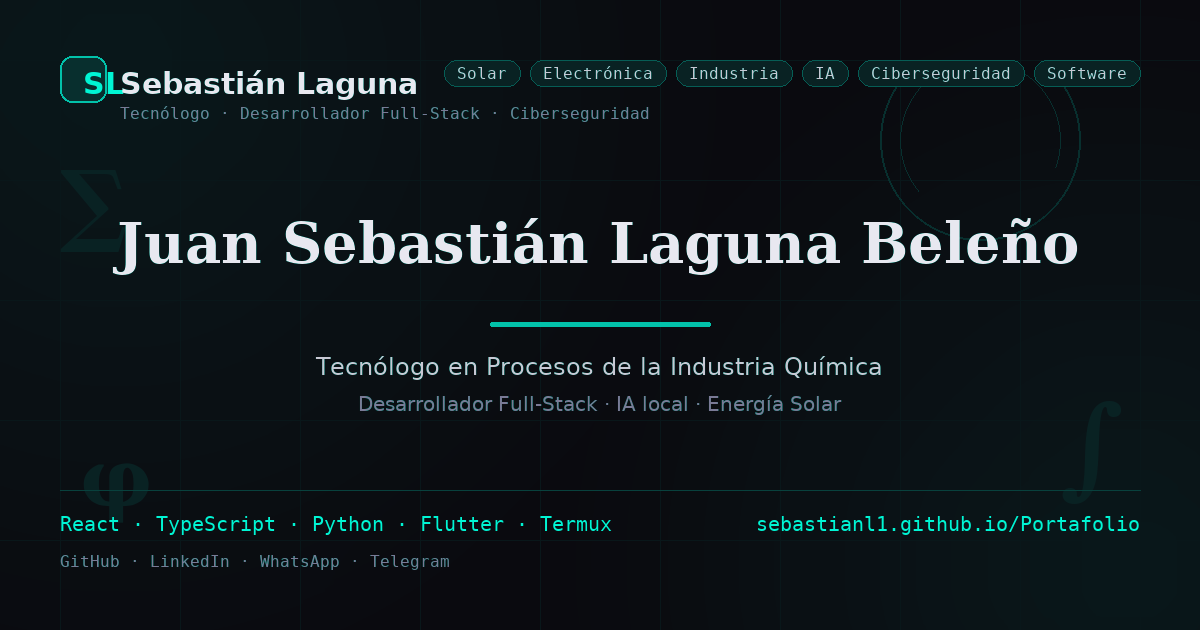
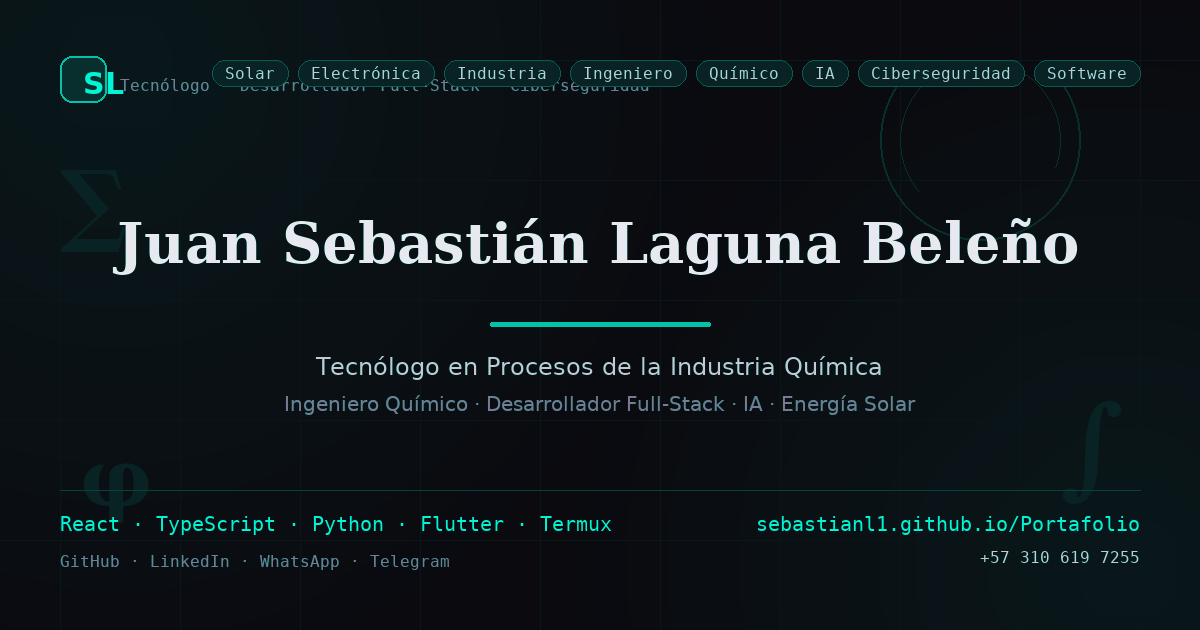
feat: refine og-image — SL badge, areas and visible phone
- Header now shows only the SL badge with the role subtitle (name removed,
  it appears larger in the center).
- Areas chips extended (Software, Ciberseguridad, IA, Químico, Ingeniero,
  Industria, Electrónica, Solar).
- Center line generalized to 'Ingeniero Químico · Full-Stack · IA · Energía Solar'.
- Phone +57 310 619 7255 shown below the portfolio link.

diff --git a/scripts/generate-og.py b/scripts/generate-og.py
@@ -82,11 +82,10 @@ for sym, x, y, size in [("∑", 60, 150, 90), ("∫", 1060, 380, 110), ("φ", 80
 # ── Cabecera ──
 d.rounded_rectangle([60, 56, 106, 102], radius=12, fill=(0, 245, 212, 40), outline=(0, 245, 212, 200), width=2)
 d.text((83, 66), "SL", font=F_SANS_B, fill=TEAL)
-d.text((120, 66), "Sebastián Laguna", font=F_SANS_B, fill=WHITE)
-d.text((120, 104), "Tecnólogo · Desarrollador Full-Stack · Ciberseguridad", font=F_MONO_S, fill=MUTED)
+d.text((120, 76), "Tecnólogo · Desarrollador Full-Stack · Ciberseguridad", font=F_MONO_S, fill=MUTED)
 
 # Chips de áreas (esquina superior derecha)
-chips = ["Software", "Ciberseguridad", "IA", "Industria", "Electrónica", "Solar"]
+chips = ["Software", "Ciberseguridad", "IA", "Químico", "Ingeniero", "Industria", "Electrónica", "Solar"]
 x = W - 60
 y = 60
 row = []
@@ -111,7 +110,7 @@ d.text(((W - nw) / 2, 210), name, font=nf, fill=WHITE)
 d.rounded_rectangle([(W - 220) / 2, 322, (W + 220) / 2, 326], radius=2, fill=(0, 245, 212, 200))
 
 sub = "Tecnólogo en Procesos de la Industria Química"
-sub2 = "Desarrollador Full-Stack · IA local · Energía Solar"
+sub2 = "Ingeniero Químico · Desarrollador Full-Stack · IA · Energía Solar"
 sw = F_SANS.getbbox(sub)[2] - F_SANS.getbbox(sub)[0]
 d.text(((W - sw) / 2, 352), sub, font=F_SANS, fill=SILVER)
 sw2 = F_SANS_S.getbbox(sub2)[2] - F_SANS_S.getbbox(sub2)[0]
@@ -126,6 +125,10 @@ d.text((60, 512), tech, font=F_MONO, fill=TEAL)
 url = "sebastianl1.github.io/Portafolio"
 uw = F_MONO.getbbox(url)[2] - F_MONO.getbbox(url)[0]
 d.text((W - 60 - uw, 512), url, font=F_MONO, fill=TEAL)
+
+phone = "+57 310 619 7255"
+pw = F_MONO_S.getbbox(phone)[2] - F_MONO_S.getbbox(phone)[0]
+d.text((W - 60 - pw, 548), phone, font=F_MONO_S, fill=SILVER)
 
 contacts = "GitHub · LinkedIn · WhatsApp · Telegram"
 d.text((60, 552), contacts, font=F_MONO_S, fill=MUTED)
